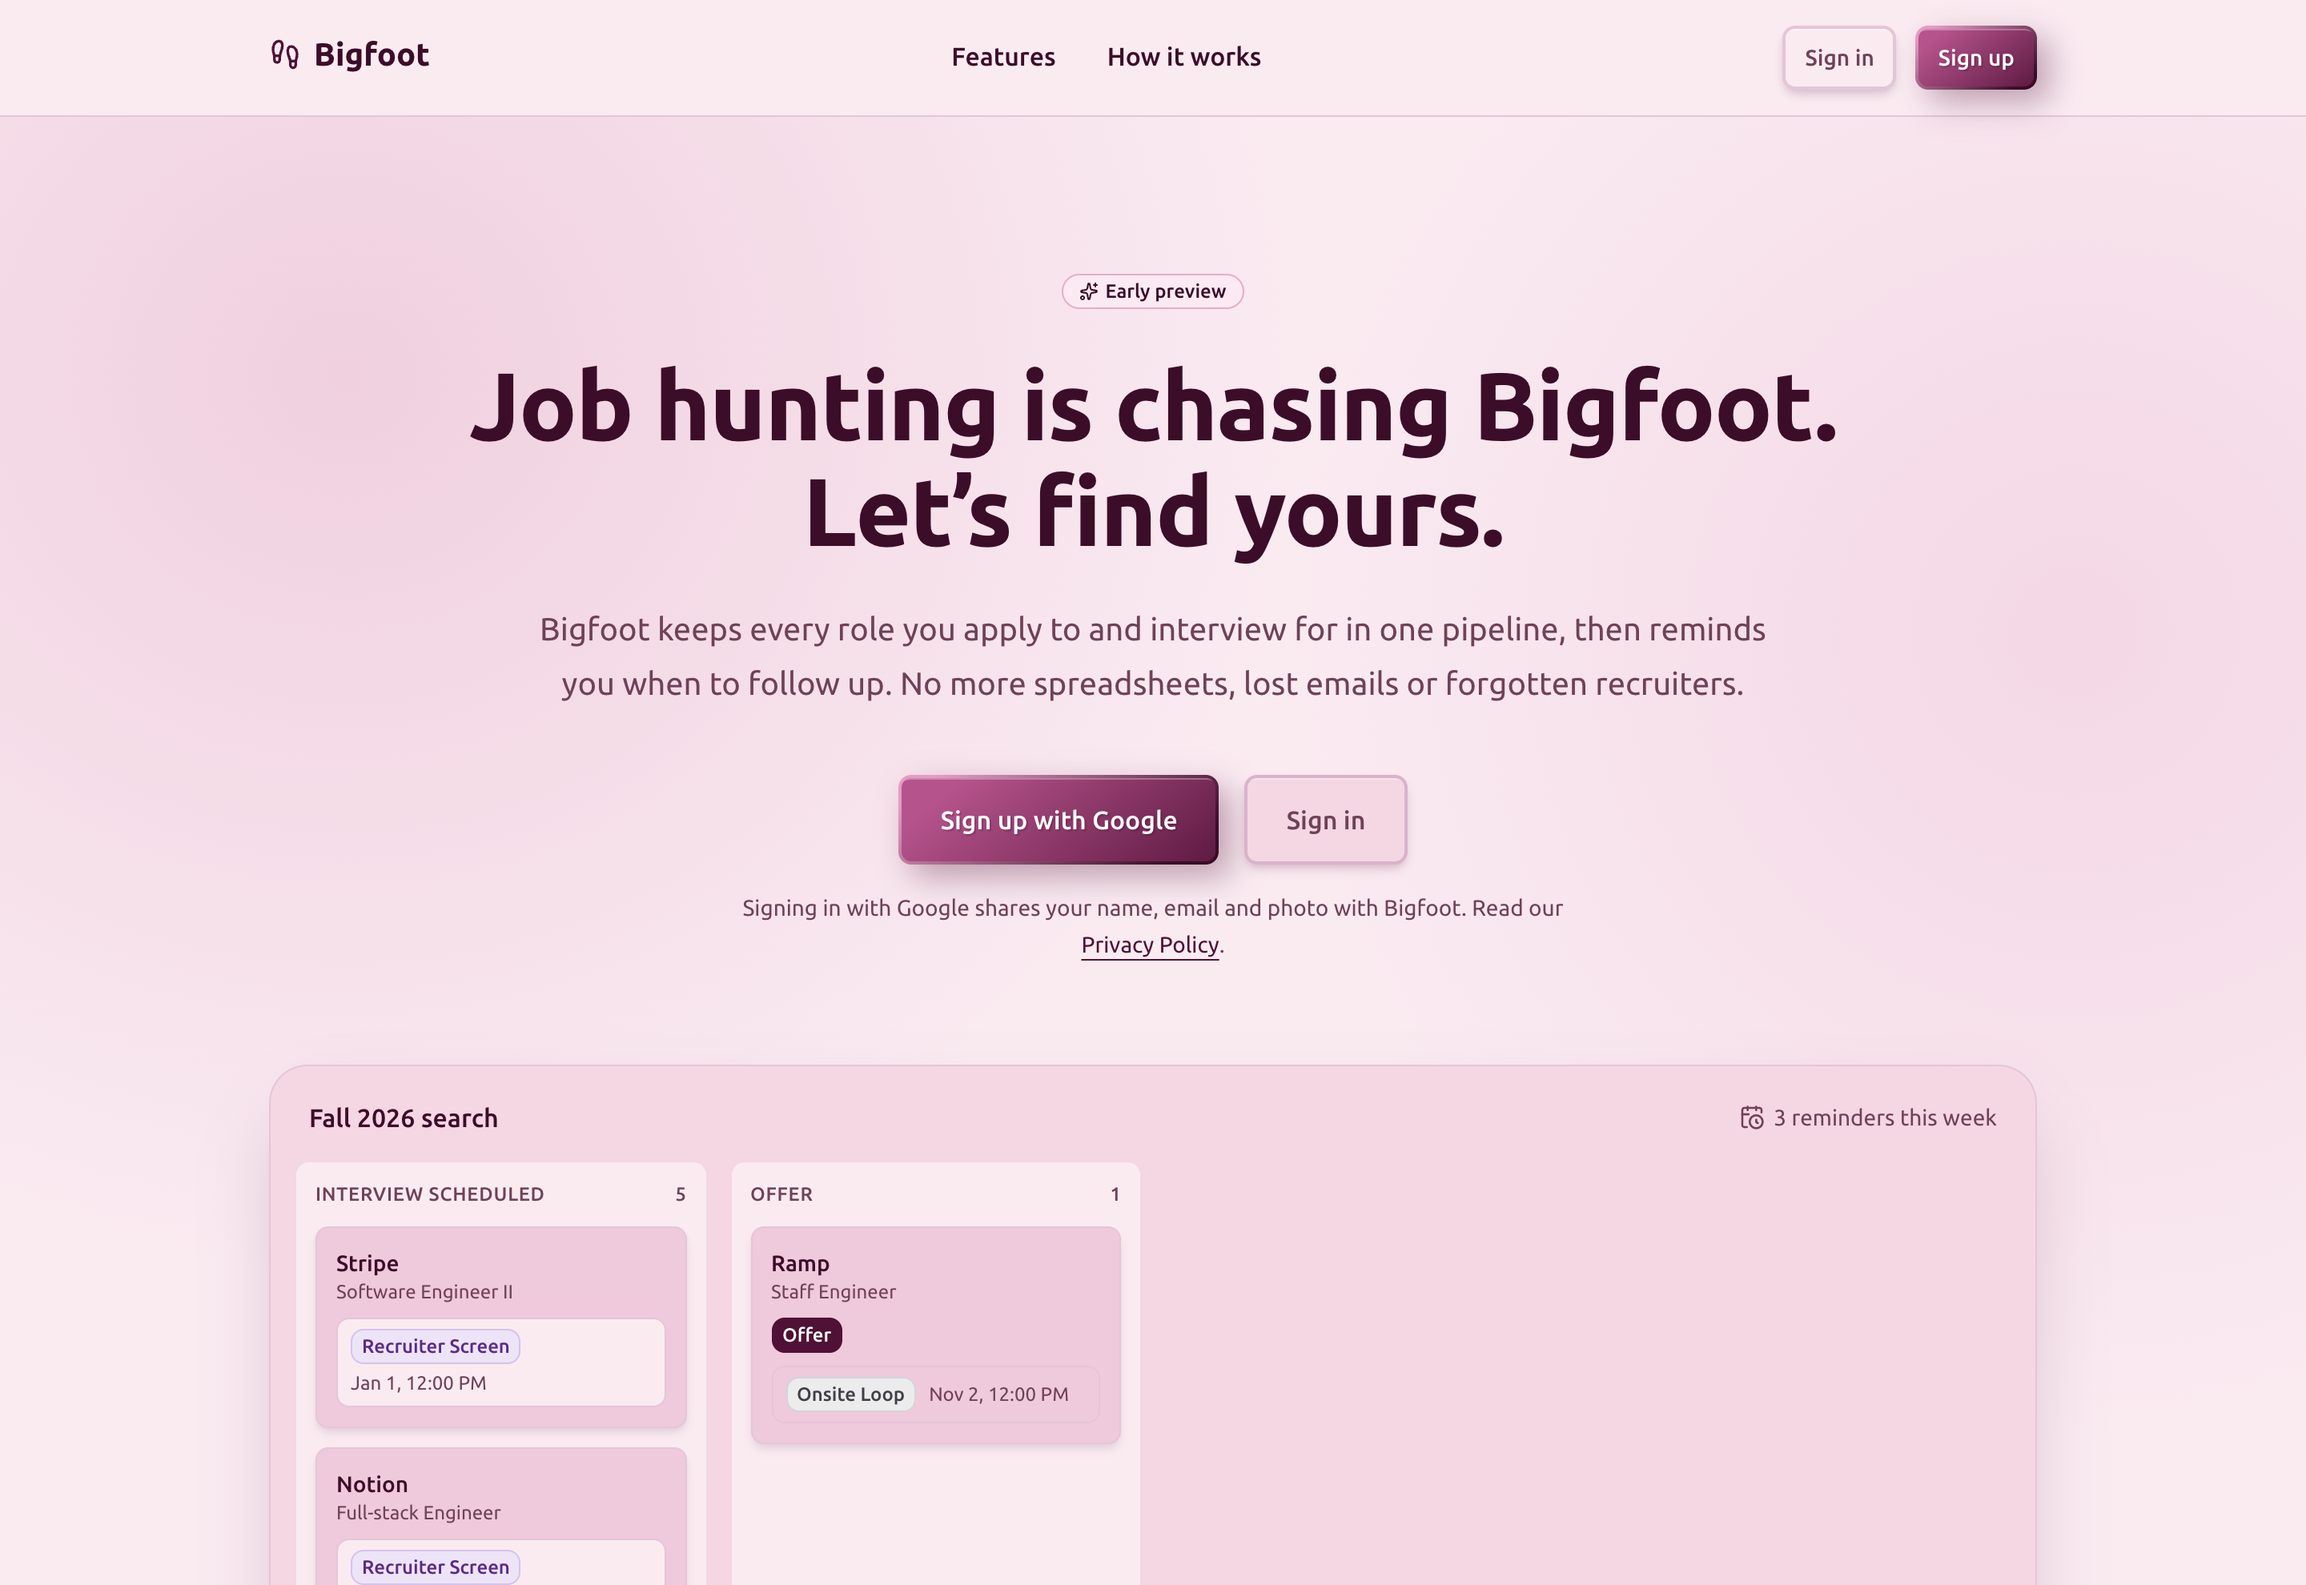
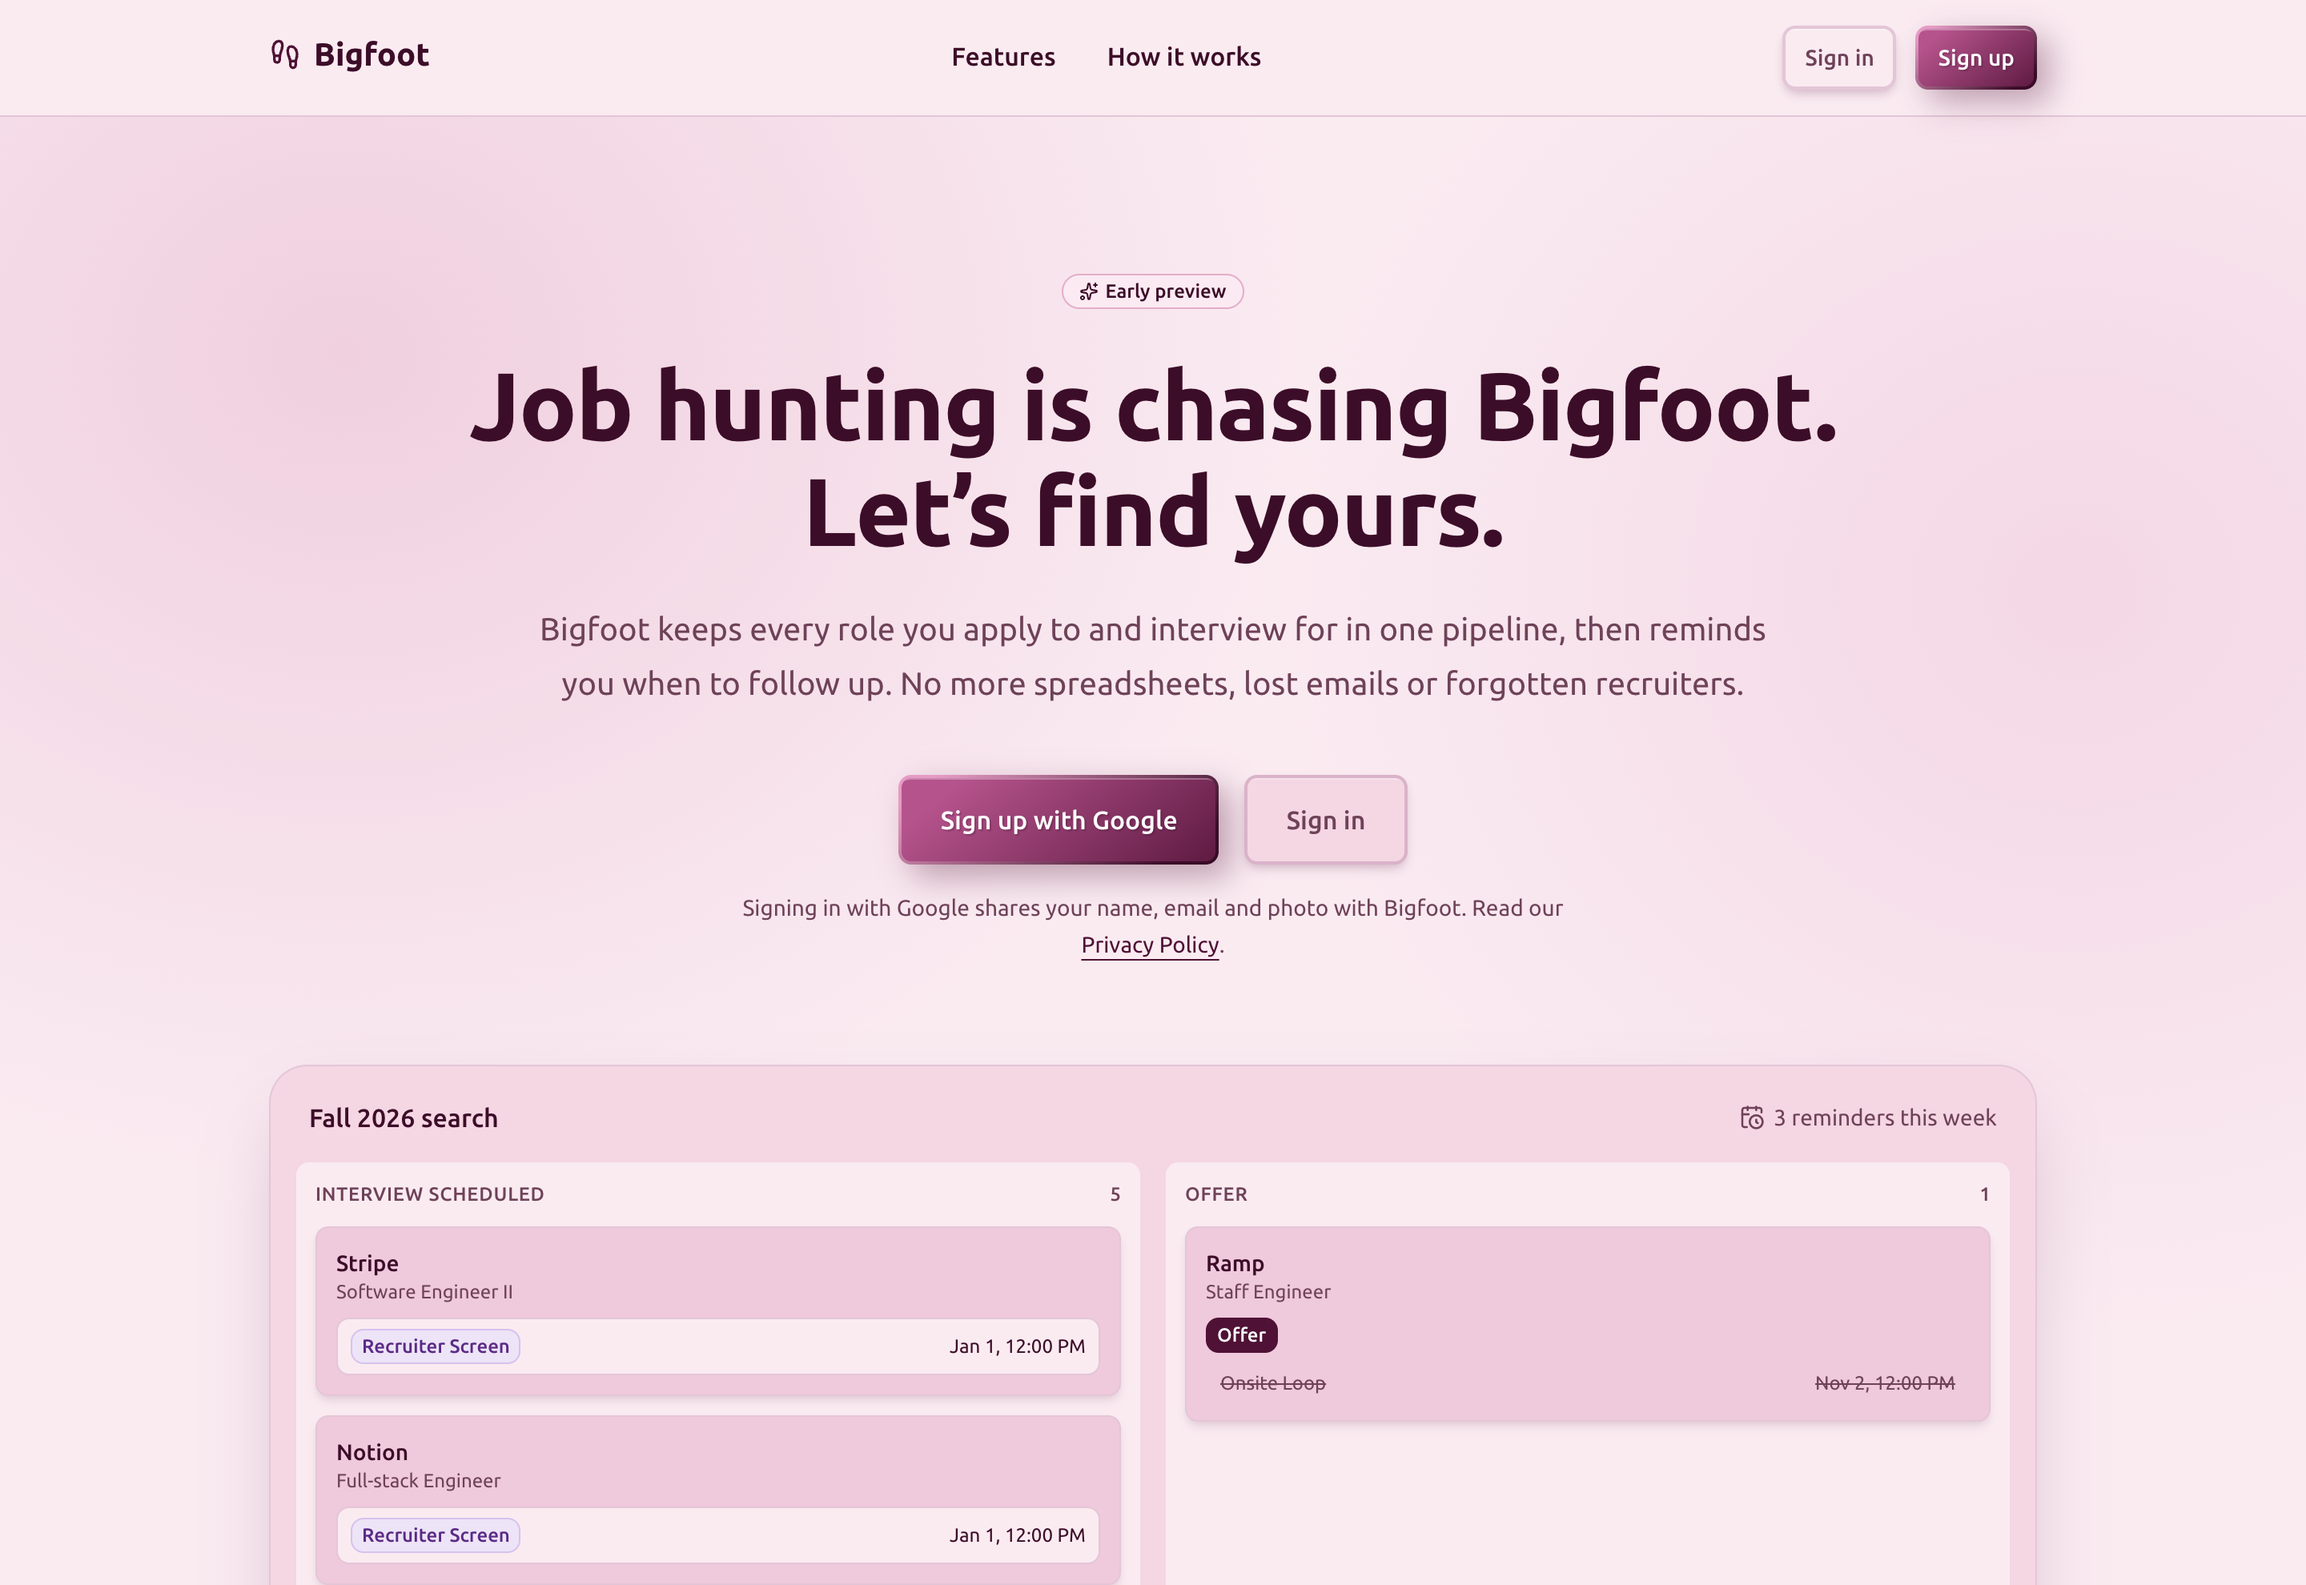
Strike through completed Interviews and stretch Pipeline columns (BIG-49)
Completed Interviews (past or undated) are now plain, struck-through grey
text with no badge or box; upcoming ones keep a coloured badge in a box,
with the date in the heading colour. Each Interview is one row, kind on
the left and date on the right. The board's columns use auto-fit, so
they stretch across the Pipeline instead of leaving an empty track,
which gives each row room to stay on one line.

Changed region(s): [[0.125, 0.7702, 0.5625, 1.0], [0.8125, 0.8626, 0.8438, 0.8934]]

diff --git a/src/components/pipeline-board.tsx b/src/components/pipeline-board.tsx
@@ -59,9 +59,9 @@ export function PipelineBoard({
           Open applications show up here, grouped by whether an interview is booked.
         </p>
       ) : (
-        // Columns wrap onto new rows rather than scrolling sideways, so no column is
-        // hidden off-screen.
-        <div className="grid grid-cols-[repeat(auto-fill,minmax(13rem,1fr))] gap-4">
+        // Columns stretch to fill the board (auto-fit drops empty tracks) and wrap onto new rows
+        // rather than scrolling sideways, so no column is hidden off-screen.
+        <div className="grid grid-cols-[repeat(auto-fit,minmax(13rem,1fr))] gap-4">
           {columns.map((column) => (
             <section
               key={column.id}
@@ -117,9 +117,8 @@ function Card({ job, onOpen }: { job: Application; onOpen?: (app: Application) =
           <Badge tone={OUTCOME_OPTIONS[job.outcome].tone}>{OUTCOME_OPTIONS[job.outcome].label}</Badge>
         )}
         {job.interviews.length > 0 && (
-          // Every Interview in date order (undated, then past, then upcoming), each in its own box
-          // so its kind and date stay together at any card width. Completed ones are muted.
-          <ul aria-label="Interviews" className="m-0 flex w-full list-none flex-col gap-2 p-0">
+          // Every Interview in date order (undated, then past, then upcoming), one row each.
+          <ul aria-label="Interviews" className="m-0 flex w-full list-none flex-col gap-1.5 p-0">
             {job.interviews.map((interview) => (
               <InterviewItem key={interview.id} interview={interview} />
             ))}
@@ -131,17 +130,29 @@ function Card({ job, onOpen }: { job: Application; onOpen?: (app: Application) =
   );
 }
 
+/**
+ * One Interview as a row: its kind on the left, its date on the right. An upcoming one is a
+ * coloured badge in a box; a completed one (past or undated) is plain, struck-through grey text.
+ */
 function InterviewItem({ interview }: { interview: Interview }) {
   const kind = INTERVIEW_OPTIONS[interview.kind];
+  if (interview.completed) {
+    return (
+      <li className="flex flex-wrap items-center gap-x-3 gap-y-0.5 border border-transparent px-2 py-0.5 text-body line-through">
+        <span>{kind.label}</span>
+        <span className="ml-auto">
+          <InterviewWhen at={interview.at} />
+        </span>
+        <span className="sr-only">(past)</span>
+      </li>
+    );
+  }
   return (
-    <li
-      className={`flex flex-wrap items-center gap-x-2 gap-y-1 rounded-control border border-line px-2 py-1.5 ${
-        interview.completed ? "" : "bg-surface"
-      }`}
-    >
-      <Badge tone={interview.completed ? "gray" : kind.tone}>{kind.label}</Badge>
-      <InterviewWhen at={interview.at} />
-      {interview.completed && <span className="sr-only">(past)</span>}
+    <li className="flex flex-wrap items-center gap-x-3 gap-y-1 rounded-control border border-line bg-surface px-2 py-1.5 text-heading">
+      <Badge tone={kind.tone}>{kind.label}</Badge>
+      <span className="ml-auto">
+        <InterviewWhen at={interview.at} />
+      </span>
     </li>
   );
 }
